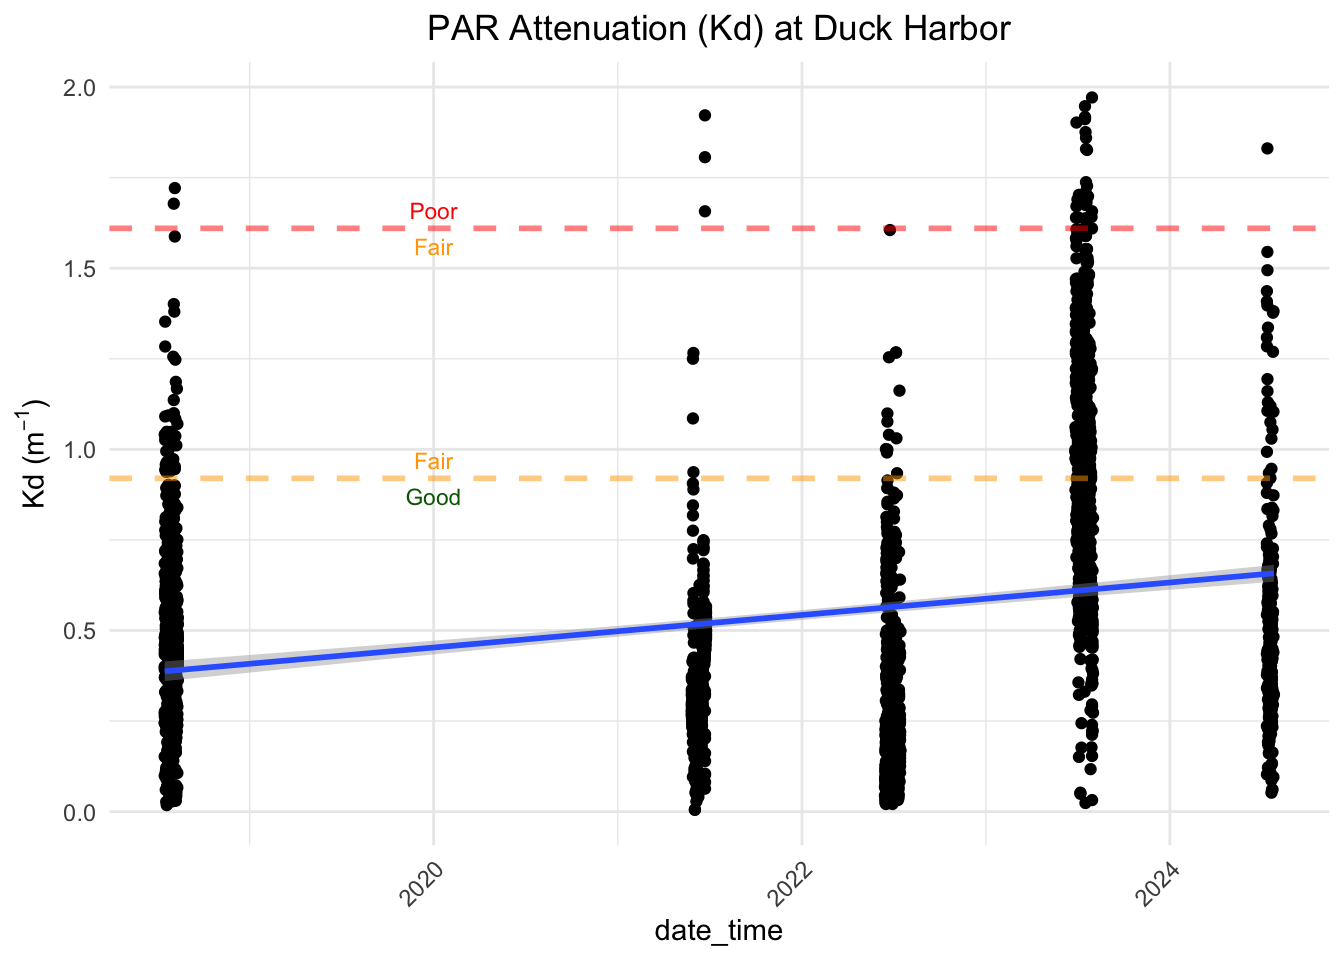
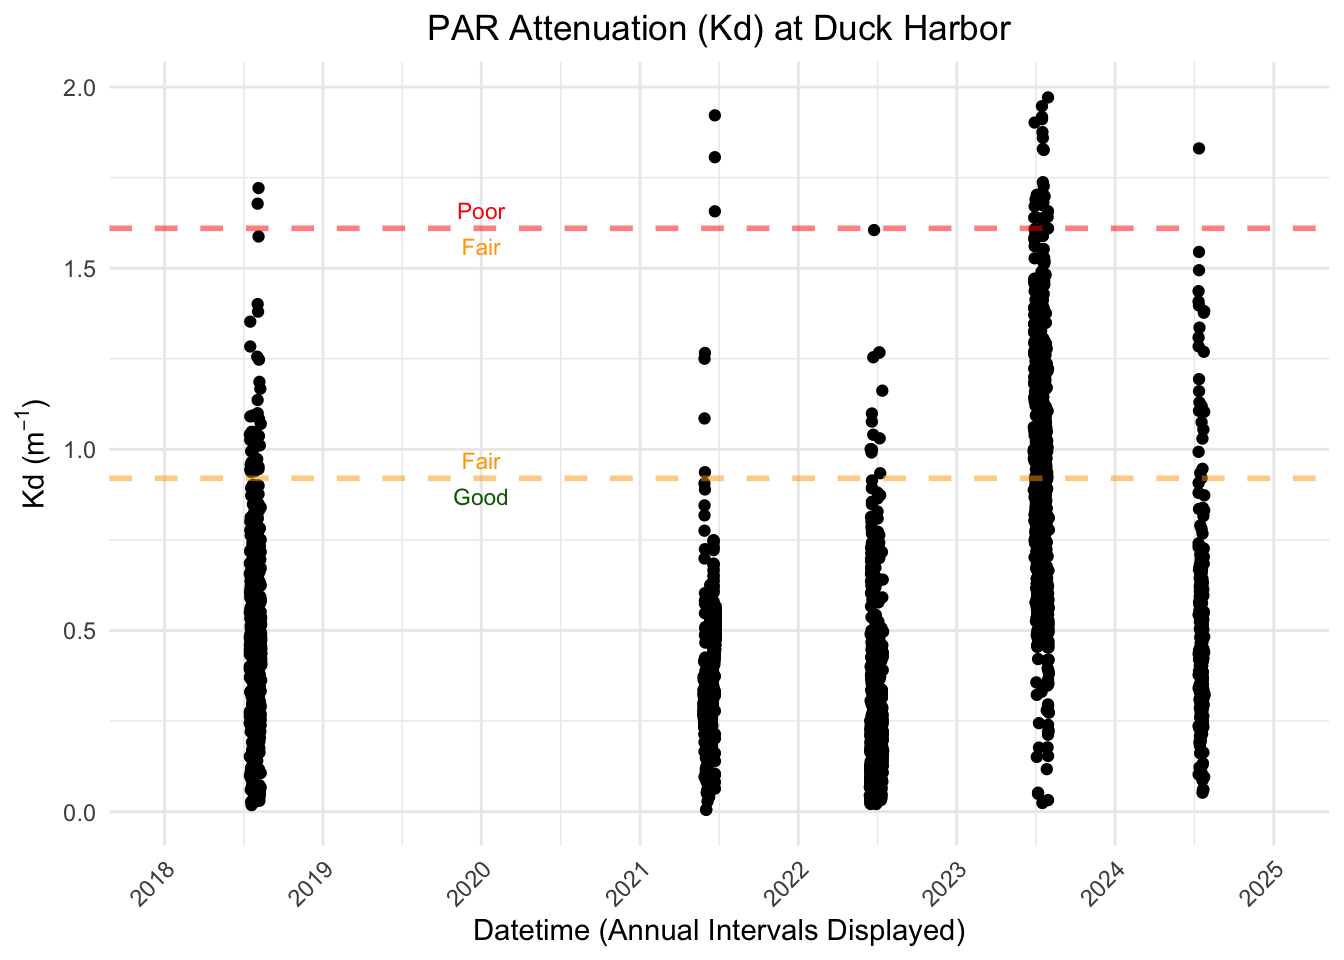
Minor plot dislay updates

diff --git a/quarto_docs/nps_eelgrass_monitor.html b/quarto_docs/nps_eelgrass_monitor.html
@@ -465,20 +465,23 @@ pre > code.sourceCode > span > a:first-child::before { text-decoration: underlin
 <span id="cb13-23"><a href="#cb13-23" aria-hidden="true" tabindex="-1"></a>             <span class="at">linetype =</span> <span class="st">'dashed'</span>, <span class="at">color =</span> <span class="st">'red'</span>, <span class="at">linewidth =</span> <span class="dv">1</span>, <span class="at">alpha =</span> <span class="fl">0.5</span>) <span class="sc">+</span></span>
 <span id="cb13-24"><a href="#cb13-24" aria-hidden="true" tabindex="-1"></a>  <span class="fu">geom_hline</span>(<span class="at">yintercept =</span> threshold_fair_good,</span>
 <span id="cb13-25"><a href="#cb13-25" aria-hidden="true" tabindex="-1"></a>             <span class="at">linetype =</span> <span class="st">'dashed'</span>, <span class="at">color =</span> <span class="st">'orange'</span>, <span class="at">linewidth =</span> <span class="dv">1</span>, <span class="at">alpha =</span> <span class="fl">0.5</span>) <span class="sc">+</span></span>
-<span id="cb13-26"><a href="#cb13-26" aria-hidden="true" tabindex="-1"></a>  <span class="fu">geom_smooth</span>(<span class="at">method =</span> lm) <span class="sc">+</span> </span>
-<span id="cb13-27"><a href="#cb13-27" aria-hidden="true" tabindex="-1"></a>  </span>
-<span id="cb13-28"><a href="#cb13-28" aria-hidden="true" tabindex="-1"></a>  <span class="co"># Add text labels to denote threshold line meanings</span></span>
-<span id="cb13-29"><a href="#cb13-29" aria-hidden="true" tabindex="-1"></a>  <span class="fu">annotate</span>(<span class="st">"text"</span>, <span class="at">x =</span> <span class="fu">as.POSIXct</span>(<span class="st">"2020-01-01"</span>, <span class="at">tz =</span> <span class="st">"UTC"</span>), <span class="at">y =</span> threshold_fair_good <span class="sc">-</span> <span class="fl">0.05</span>,</span>
-<span id="cb13-30"><a href="#cb13-30" aria-hidden="true" tabindex="-1"></a>    <span class="at">label =</span> <span class="st">"Good"</span>, <span class="at">color =</span> <span class="st">"darkgreen"</span>, <span class="at">size =</span> <span class="dv">3</span>) <span class="sc">+</span></span>
-<span id="cb13-31"><a href="#cb13-31" aria-hidden="true" tabindex="-1"></a>  <span class="fu">annotate</span>(<span class="st">"text"</span>, <span class="at">x =</span> <span class="fu">as.POSIXct</span>(<span class="st">"2020-01-01"</span>, <span class="at">tz =</span> <span class="st">"UTC"</span>), <span class="at">y =</span> threshold_fair_good <span class="sc">+</span> <span class="fl">0.05</span>,</span>
-<span id="cb13-32"><a href="#cb13-32" aria-hidden="true" tabindex="-1"></a>           <span class="at">label =</span> <span class="st">"Fair"</span>, <span class="at">color =</span> <span class="st">"orange"</span>, <span class="at">size =</span> <span class="dv">3</span>) <span class="sc">+</span> </span>
-<span id="cb13-33"><a href="#cb13-33" aria-hidden="true" tabindex="-1"></a>  <span class="fu">annotate</span>(<span class="st">"text"</span>, <span class="at">x =</span> <span class="fu">as.POSIXct</span>(<span class="st">"2020-01-01"</span>, <span class="at">tz =</span> <span class="st">"UTC"</span>), <span class="at">y =</span> threshold_poor_fair <span class="sc">-</span> <span class="fl">0.05</span>,</span>
-<span id="cb13-34"><a href="#cb13-34" aria-hidden="true" tabindex="-1"></a>           <span class="at">label =</span> <span class="st">"Fair"</span>, <span class="at">color =</span> <span class="st">"orange"</span>, <span class="at">size =</span> <span class="dv">3</span>) <span class="sc">+</span> </span>
-<span id="cb13-35"><a href="#cb13-35" aria-hidden="true" tabindex="-1"></a>  <span class="fu">annotate</span>(<span class="st">"text"</span>, <span class="at">x =</span> <span class="fu">as.POSIXct</span>(<span class="st">"2020-01-01"</span>, <span class="at">tz =</span> <span class="st">"UTC"</span>), <span class="at">y =</span> threshold_poor_fair <span class="sc">+</span> <span class="fl">0.05</span>,</span>
-<span id="cb13-36"><a href="#cb13-36" aria-hidden="true" tabindex="-1"></a>           <span class="at">label =</span> <span class="st">"Poor"</span>, <span class="at">color =</span> <span class="st">"red"</span>, <span class="at">size =</span> <span class="dv">3</span>) <span class="sc">+</span></span>
-<span id="cb13-37"><a href="#cb13-37" aria-hidden="true" tabindex="-1"></a>  </span>
-<span id="cb13-38"><a href="#cb13-38" aria-hidden="true" tabindex="-1"></a>  <span class="fu">labs</span>(<span class="at">title =</span> <span class="st">"PAR Attenuation (Kd) at Duck Harbor"</span>,</span>
-<span id="cb13-39"><a href="#cb13-39" aria-hidden="true" tabindex="-1"></a>       <span class="at">y =</span> <span class="fu">expression</span>(<span class="st">"Kd (m"</span><span class="sc">^</span>{<span class="sc">-</span><span class="dv">1</span>}<span class="sc">*</span><span class="st">")"</span>))</span></code><button title="Copy to Clipboard" class="code-copy-button"><i class="bi"></i></button></pre></div>
+<span id="cb13-26"><a href="#cb13-26" aria-hidden="true" tabindex="-1"></a>  <span class="co"># geom_smooth(method = lm) + </span></span>
+<span id="cb13-27"><a href="#cb13-27" aria-hidden="true" tabindex="-1"></a>  <span class="fu">scale_x_datetime</span>(</span>
+<span id="cb13-28"><a href="#cb13-28" aria-hidden="true" tabindex="-1"></a>    <span class="at">limits =</span> <span class="fu">as.POSIXct</span>(<span class="fu">c</span>(<span class="st">"2018-01-01"</span>, <span class="st">"2025-01-01"</span>)),</span>
+<span id="cb13-29"><a href="#cb13-29" aria-hidden="true" tabindex="-1"></a>    <span class="at">date_breaks =</span> <span class="st">"1 year"</span>,</span>
+<span id="cb13-30"><a href="#cb13-30" aria-hidden="true" tabindex="-1"></a>    <span class="at">date_labels =</span> <span class="st">"%Y"</span>) <span class="sc">+</span></span>
+<span id="cb13-31"><a href="#cb13-31" aria-hidden="true" tabindex="-1"></a>  <span class="co"># Add text labels to denote threshold line meanings</span></span>
+<span id="cb13-32"><a href="#cb13-32" aria-hidden="true" tabindex="-1"></a>  <span class="fu">annotate</span>(<span class="st">"text"</span>, <span class="at">x =</span> <span class="fu">as.POSIXct</span>(<span class="st">"2020-01-01"</span>, <span class="at">tz =</span> <span class="st">"UTC"</span>), <span class="at">y =</span> threshold_fair_good <span class="sc">-</span> <span class="fl">0.05</span>,</span>
+<span id="cb13-33"><a href="#cb13-33" aria-hidden="true" tabindex="-1"></a>    <span class="at">label =</span> <span class="st">"Good"</span>, <span class="at">color =</span> <span class="st">"darkgreen"</span>, <span class="at">size =</span> <span class="dv">3</span>) <span class="sc">+</span></span>
+<span id="cb13-34"><a href="#cb13-34" aria-hidden="true" tabindex="-1"></a>  <span class="fu">annotate</span>(<span class="st">"text"</span>, <span class="at">x =</span> <span class="fu">as.POSIXct</span>(<span class="st">"2020-01-01"</span>, <span class="at">tz =</span> <span class="st">"UTC"</span>), <span class="at">y =</span> threshold_fair_good <span class="sc">+</span> <span class="fl">0.05</span>,</span>
+<span id="cb13-35"><a href="#cb13-35" aria-hidden="true" tabindex="-1"></a>           <span class="at">label =</span> <span class="st">"Fair"</span>, <span class="at">color =</span> <span class="st">"orange"</span>, <span class="at">size =</span> <span class="dv">3</span>) <span class="sc">+</span> </span>
+<span id="cb13-36"><a href="#cb13-36" aria-hidden="true" tabindex="-1"></a>  <span class="fu">annotate</span>(<span class="st">"text"</span>, <span class="at">x =</span> <span class="fu">as.POSIXct</span>(<span class="st">"2020-01-01"</span>, <span class="at">tz =</span> <span class="st">"UTC"</span>), <span class="at">y =</span> threshold_poor_fair <span class="sc">-</span> <span class="fl">0.05</span>,</span>
+<span id="cb13-37"><a href="#cb13-37" aria-hidden="true" tabindex="-1"></a>           <span class="at">label =</span> <span class="st">"Fair"</span>, <span class="at">color =</span> <span class="st">"orange"</span>, <span class="at">size =</span> <span class="dv">3</span>) <span class="sc">+</span> </span>
+<span id="cb13-38"><a href="#cb13-38" aria-hidden="true" tabindex="-1"></a>  <span class="fu">annotate</span>(<span class="st">"text"</span>, <span class="at">x =</span> <span class="fu">as.POSIXct</span>(<span class="st">"2020-01-01"</span>, <span class="at">tz =</span> <span class="st">"UTC"</span>), <span class="at">y =</span> threshold_poor_fair <span class="sc">+</span> <span class="fl">0.05</span>,</span>
+<span id="cb13-39"><a href="#cb13-39" aria-hidden="true" tabindex="-1"></a>           <span class="at">label =</span> <span class="st">"Poor"</span>, <span class="at">color =</span> <span class="st">"red"</span>, <span class="at">size =</span> <span class="dv">3</span>) <span class="sc">+</span></span>
+<span id="cb13-40"><a href="#cb13-40" aria-hidden="true" tabindex="-1"></a>  <span class="fu">labs</span>(<span class="at">title =</span> <span class="st">"PAR Attenuation (Kd) at Duck Harbor"</span>,</span>
+<span id="cb13-41"><a href="#cb13-41" aria-hidden="true" tabindex="-1"></a>       <span class="at">x =</span> <span class="st">"Datetime (Annual Intervals Displayed)"</span>,</span>
+<span id="cb13-42"><a href="#cb13-42" aria-hidden="true" tabindex="-1"></a>       <span class="at">y =</span> <span class="fu">expression</span>(<span class="st">"Kd (m"</span><span class="sc">^</span>{<span class="sc">-</span><span class="dv">1</span>}<span class="sc">*</span><span class="st">")"</span>))</span></code><button title="Copy to Clipboard" class="code-copy-button"><i class="bi"></i></button></pre></div>
 </details>
 <div class="cell-output-display">
 <div>
